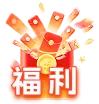
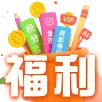
优化社区页面布局、首页福利图标、暗网播放器VIP推广条

diff --git a/frontend/src/views/user/Community/index.vue b/frontend/src/views/user/Community/index.vue
@@ -12,28 +12,12 @@
         </router-link>
       </div>
 
-      <!-- 图标广告位 -->
-      <IconAdsGrid :ads="iconAds" />
-      
       <!-- 社区分类 -->
       <template v-if="activeMainTab === 'community'">
         <div class="category-tabs">
           <div class="category-scroll">
             <span v-for="cat in topCategories" :key="cat.id" :class="['category-tab', { active: selectedCategory === cat.id }]" @click="selectCategory(cat)">{{ cat.name }}</span>
           </div>
-        </div>
-        
-        <div class="topic-cards" v-if="currentSubTopics.length">
-          <div class="topic-grid">
-            <div v-for="topic in currentSubTopics" :key="topic.id" :class="['topic-card', { active: selectedTopic === topic.id }]" :style="topic.cover ? { backgroundImage: `url(${topic.cover})` } : {}" @click="selectTopic(topic)">
-              <span class="topic-name">{{ topic.name }}</span>
-              <span class="topic-count">{{ formatCount(topic.post_count) }}个帖子</span>
-            </div>
-          </div>
-        </div>
-        
-        <div class="filter-tabs">
-          <span v-for="filter in filterTabs" :key="filter.value" :class="['filter-tab', { active: activeFilter === filter.value }]" @click="setFilter(filter.value)">{{ filter.label }}</span>
         </div>
       </template>
 
@@ -54,6 +38,25 @@
           <span v-for="cat in novelCategories" :key="cat.id" :class="['category-tab', { active: selectedNovelCategory === cat.id }]" @click="selectNovelCategory(cat.id)">{{ cat.name }}</span>
         </div>
       </div>
+
+      <!-- 图标广告位 -->
+      <IconAdsGrid :ads="iconAds" />
+      
+      <!-- 社区话题卡片和筛选 -->
+      <template v-if="activeMainTab === 'community'">
+        <div class="topic-cards" v-if="currentSubTopics.length">
+          <div class="topic-grid">
+            <div v-for="topic in currentSubTopics" :key="topic.id" :class="['topic-card', { active: selectedTopic === topic.id }]" :style="topic.cover ? { backgroundImage: `url(${topic.cover})` } : {}" @click="selectTopic(topic)">
+              <span class="topic-name">{{ topic.name }}</span>
+              <span class="topic-count">{{ formatCount(topic.post_count) }}个帖子</span>
+            </div>
+          </div>
+        </div>
+        
+        <div class="filter-tabs">
+          <span v-for="filter in filterTabs" :key="filter.value" :class="['filter-tab', { active: activeFilter === filter.value }]" @click="setFilter(filter.value)">{{ filter.label }}</span>
+        </div>
+      </template>
     </header>
 
     <!-- 内容区域 -->
@@ -218,6 +221,7 @@ onActivated(async () => {
   align-items: center;
   padding: 12px 16px;
   gap: 20px;
+  border-bottom: 1px solid rgba(255, 255, 255, 0.08);
 }
 
 .tab-item {
@@ -245,7 +249,7 @@ onActivated(async () => {
 .category-tab {
   flex-shrink: 0;
   color: #888;
-  font-size: 14px;
+  font-size: 15px;
   cursor: pointer;
   white-space: nowrap;
   padding: 4px 0;

diff --git a/frontend/src/views/user/DarkwebPlayer.vue b/frontend/src/views/user/DarkwebPlayer.vue
@@ -56,8 +56,8 @@
       </div>
     </Teleport>
 
-    <!-- 会员推广条 -->
-    <div class="vip-promo" @click="$router.push('/user/vip')">
+    <!-- 会员推广条 - VIP免费观看时不显示 -->
+    <div class="vip-promo" @click="$router.push('/user/vip')" v-if="!isVipFree">
       <!-- 非会员样式 -->
       <template v-if="!isVip">
         <span class="promo-text">开通会员 享专属特权</span>
@@ -532,7 +532,7 @@ const showShareModal = ref(false)  // 分享弹窗
 const purchasing = ref(false)
 const userCoins = ref(0)
 const trialWatchTime = ref(0)
-const isVipFree = ref(false)  // VIP免费观看
+const isVipFree = ref(true)  // VIP免费观看，默认true避免闪烁
 const currentPlayTime = ref(0)  // 当前播放时间
 
 // 分享相关
@@ -1027,6 +1027,7 @@ const checkVideoPurchase = async () => {
   if (!v.pay_type || v.pay_type === 'free') {
     needsPurchase.value = false
     hasPurchased.value = true
+    isVipFree.value = true  // 免费视频也设置为VIP免费，隐藏推广条
     return
   }
   

diff --git a/frontend/src/views/user/Home/index.vue b/frontend/src/views/user/Home/index.vue
@@ -247,6 +247,7 @@ $breakpoint-xxl: 1280px;
     justify-content: space-between;
     align-items: center;
     padding: clamp(8px, 2vw, 14px) clamp(10px, 3vw, 20px);
+    border-bottom: 1px solid rgba(255, 255, 255, 0.08);
   }
   
   .header-left {
@@ -254,7 +255,7 @@ $breakpoint-xxl: 1280px;
     .welfare-icon {
       cursor: pointer;
       width: fit-content;
-      .fuli-img { width: 36px; height: 36px; object-fit: contain; }
+      .fuli-img { width: 32px; height: 32px; object-fit: contain; }
     }
   }
   

diff --git a/frontend/src/views/user/Community/components/GalleryList.vue b/frontend/src/views/user/Community/components/GalleryList.vue
@@ -30,12 +30,12 @@ defineEmits(['detail'])
 </script>
 
 <style lang="scss" scoped>
-.gallery-list { padding: 12px; }
+.gallery-list { padding: 8px 0 0; }
 
 .gallery-grid {
   display: grid;
   grid-template-columns: repeat(3, 1fr);
-  gap: 16px 12px;
+  gap: 12px 8px;
 }
 
 .gallery-item { cursor: pointer; display: flex; flex-direction: column; }

diff --git a/frontend/src/views/user/Community/components/NovelList.vue b/frontend/src/views/user/Community/components/NovelList.vue
@@ -30,12 +30,12 @@ defineEmits(['detail'])
 </script>
 
 <style lang="scss" scoped>
-.novel-list { padding: 12px; }
+.novel-list { padding: 8px 0 0; }
 
 .novel-grid {
   display: grid;
   grid-template-columns: repeat(3, 1fr);
-  gap: 16px 12px;
+  gap: 12px 8px;
   align-items: start;
 }
 

diff --git a/frontend/src/views/user/Community/components/PostList.vue b/frontend/src/views/user/Community/components/PostList.vue
@@ -48,7 +48,7 @@ defineEmits(['detail', 'profile', 'like'])
 </script>
 
 <style lang="scss" scoped>
-.posts-list { padding: 0 12px; }
+.posts-list { padding: 0; }
 
 .post-card {
   background: #151515;
